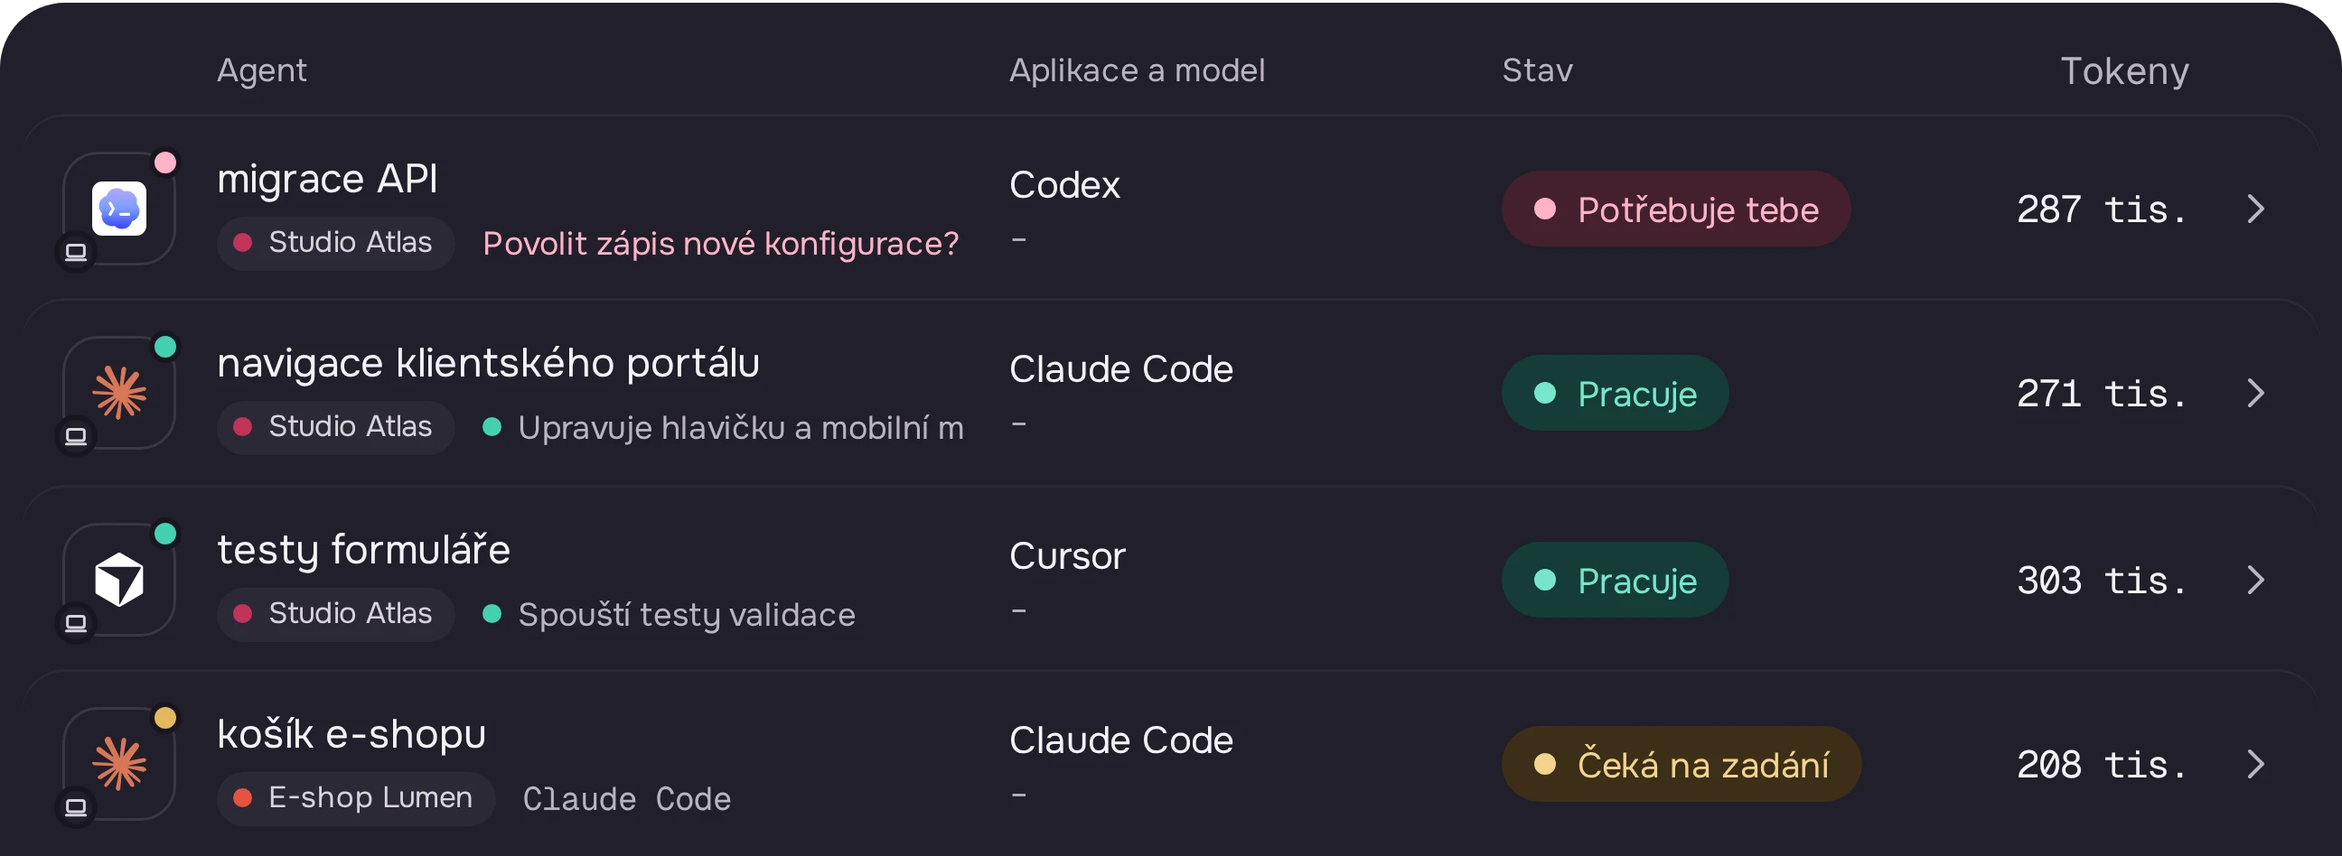
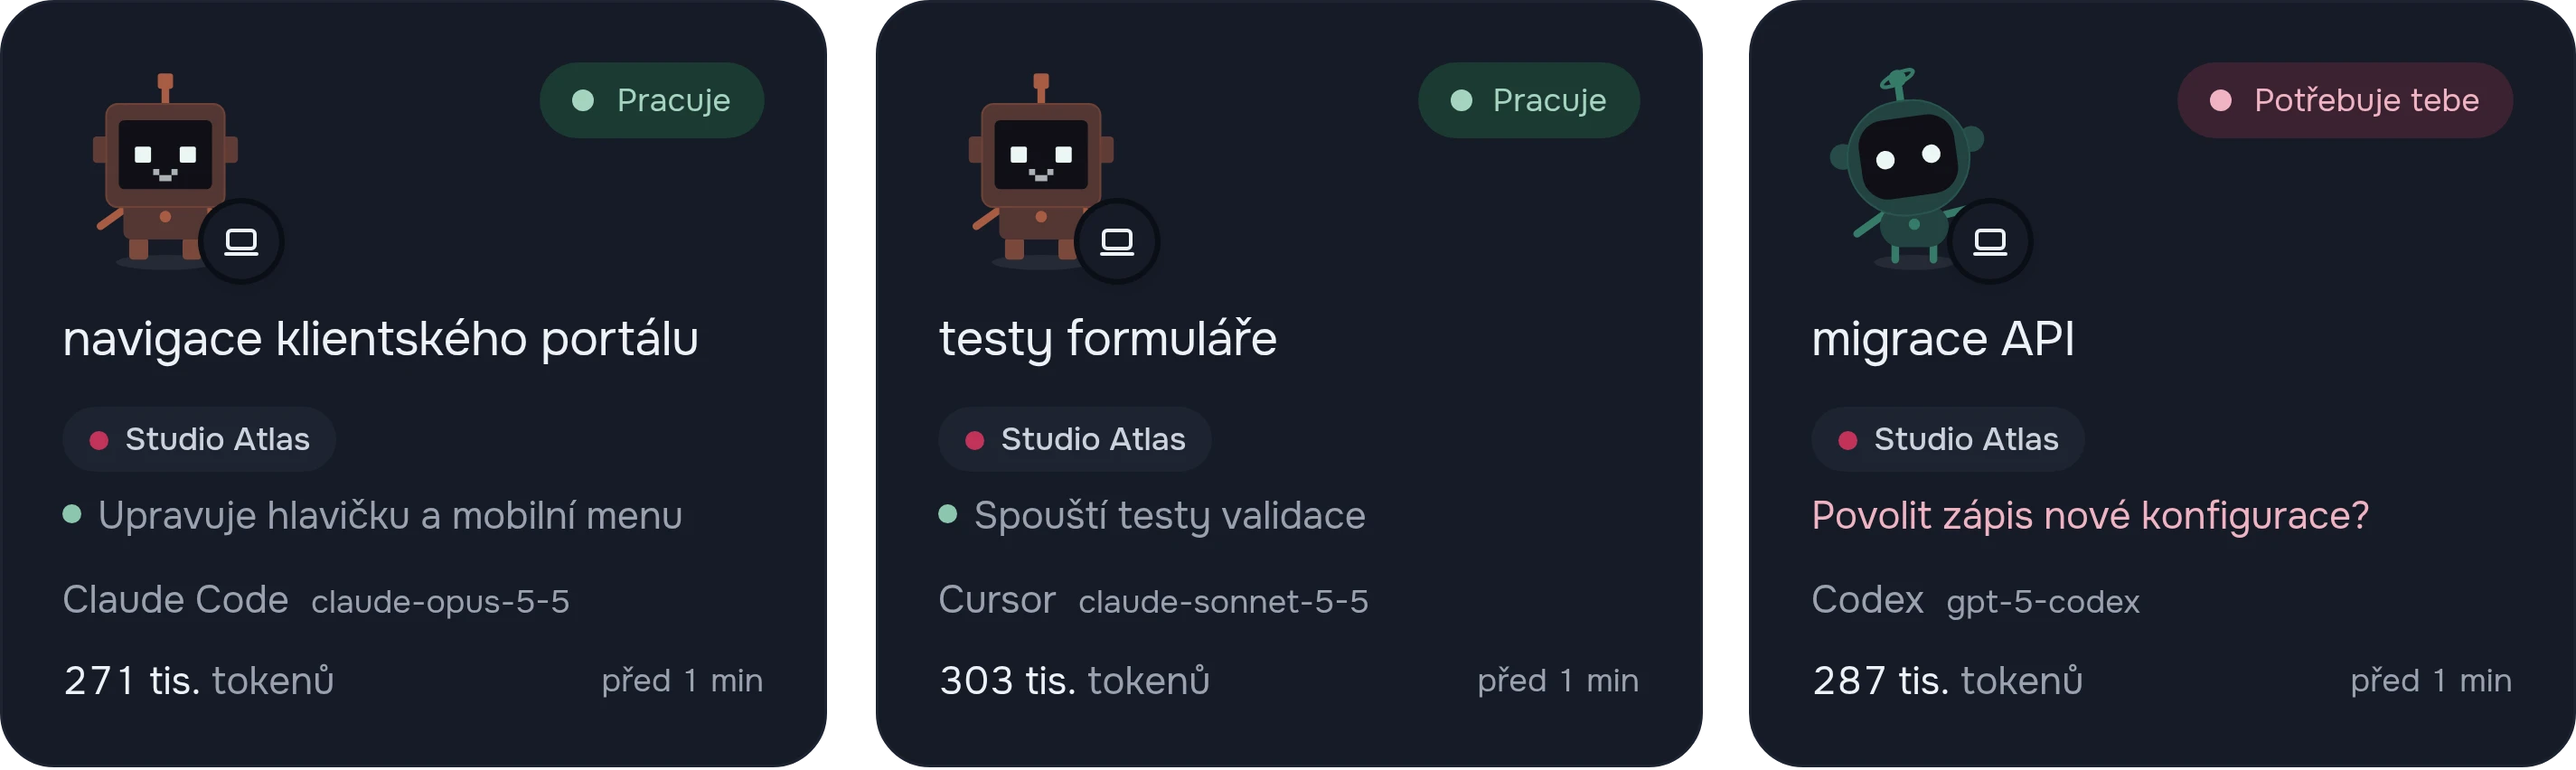
Web: snímky aplikace z aktuální verze, ukázková data s modely
- site/detail/prehled*.webp přegenerované (shots:hero) z aktuálního Přehledu.
- agenti*.webp: karty s roboty (na počítači první řada, na telefonu první karta), rozměry
  a alt v HTML podle nového obrázku.
- demo-fixture: modely claude-opus-5-5 / claude-sonnet-5-5 / gpt-5-codex místo pomlčky.
- shots-site: jen detaily, které web používá; executablePath z PLAYWRIGHT_CHROMIUM_EXECUTABLE_PATH;
  doMobil pro výřez na telefonu. Nepoužívané snímky odstraněné.

Claude-Session: https://claude.ai/code/session_019pjCMAW6NZjG9fzTfPLyCe

diff --git a/site/en/index.html b/site/en/index.html
@@ -93,8 +93,8 @@
       <p>You get a notification when an agent needs approval, finishes its work or runs low on its limit. No more checking windows one by one.</p>
       <figure class="tile-shot detail">
         <picture>
-          <source media="(max-width: 900px)" srcset="/detail/agenti-mobil-en.webp" width="342" height="418">
-          <img src="/detail/agenti-en.webp" width="864" height="316" alt="The list of agents in Agenteeq with a status for each: the API migration needs you, the client portal navigation and the form tests are working, the shop cart is waiting for a task." loading="lazy" decoding="async">
+          <source media="(max-width: 900px)" srcset="/detail/agenti-mobil-en.webp" width="350" height="284">
+          <img src="/detail/agenti-en.webp" width="950" height="305" alt="Agent cards in Agenteeq, each with a robot and a status: the API migration needs you, the client portal navigation and the form tests are working." loading="lazy" decoding="async">
         </picture>
       </figure>
     </article>

diff --git a/site/index.html b/site/index.html
@@ -93,8 +93,8 @@
       <p>Upozornění přijde, když agent čeká na schválení, dokončí práci nebo mu dochází limit. Žádné kontrolování oken jedno po druhém.</p>
       <figure class="tile-shot detail">
         <picture>
-          <source media="(max-width: 900px)" srcset="/detail/agenti-mobil.webp" width="342" height="418">
-          <img src="/detail/agenti.webp" width="864" height="316" alt="Seznam agentů v Agenteeq se stavem u každého: migrace API potřebuje tebe, navigace klientského portálu a testy formuláře pracují, košík e-shopu čeká na zadání." loading="lazy" decoding="async">
+          <source media="(max-width: 900px)" srcset="/detail/agenti-mobil.webp" width="350" height="284">
+          <img src="/detail/agenti.webp" width="950" height="284" alt="Karty agentů v Agenteeq, každý s robotem a stavem: migrace API potřebuje tebe, navigace klientského portálu a testy formuláře pracují." loading="lazy" decoding="async">
         </picture>
       </figure>
     </article>

diff --git a/CHANGELOG.md b/CHANGELOG.md
@@ -1,5 +1,12 @@
 # Changelog
 
+## Web – 2026-10-23 · Snímky aplikace z aktuální verze
+
+- Úvod webu (CZ i EN, počítač i telefon) ukazuje Přehled z aktuální verze: Vyžaduje pozornost, Stav agentů a dnešní den v pozdravu. Dřív tam byl snímek ze 13. 10.
+- Dlaždice „Vědět včas“ ukazuje karty agentů s roboty (na počítači první řada, na telefonu jedna karta) místo staré tabulky; rozměry a popis obrázku odpovídají.
+- Ukázková data mají u konverzací model (`claude-opus-5-5`, `claude-sonnet-5-5`, `gpt-5-codex`), takže karty nemají místo modelu pomlčku.
+- `shots:site` fotí jen snímky, které web používá, a prohlížeč bere z `PLAYWRIGHT_CHROMIUM_EXECUTABLE_PATH` stejně jako `shots:hero`. Nepoužívané staré snímky jsou odstraněné. Desktopová binárka se tím nemění.
+
 ## Web – 2026-10-23 · Aktuální odkaz na Preview
 
 - Úvodní a instalační stránka v češtině i angličtině ukazují veřejné Preview 0.46.60 i v případě, že prohlížeč nenačte seznam vydání z GitHubu. Tlačítko stabilního vydání dál míří na Stable Latest. Tato změna webu není součástí již zveřejněné desktopové binárky 0.46.60.
